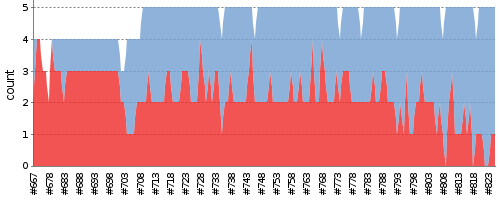
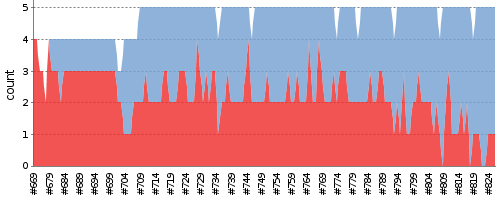
update report

diff --git a/index.md b/index.md
@@ -1,7 +1,7 @@
 ---
 layout: default
 ---
-Last update : 2016/01/20 22:59:09
+Last update : 2016/01/20 23:59:14
   
 ### Job Summary
 ___
@@ -107,6 +107,7 @@ ___
 #### Build History
 |Status|Time|Duration|<span class='badge'>ctest</span>|<span class='badge'>cppcheck</span>|Coverage|Changes|Logs|Note|
 |---|---|---|---|---|---|---|---|---|---|
+|![Jenkins Icon](http://jenkinshrg.github.io/images/24x24/yellow.png)UNSTABLE|2016/01/20 23:00|46 min.|1||||[CONSOLE](https://drive.google.com/file/d/0B54sHwaxmuM4WTNBUzJzNWpwaDA/view?usp=drivesdk)<br>[IMAGE](https://drive.google.com/file/d/0B54sHwaxmuM4YnhON295TGpiZ1U/view?usp=drivesdk)<br>[VIDEO](https://drive.google.com/file/d/0B54sHwaxmuM4YS1fdUk2NWY1c1E/view?usp=drivesdk)<br>[CONSOLE](https://drive.google.com/file/d/0B54sHwaxmuM4czhYZFlVY2xPZlE/view?usp=drivesdk)<br>[IMAGE](https://drive.google.com/file/d/0B54sHwaxmuM4RFdMdktUR0s3Ums/view?usp=drivesdk)<br>[VIDEO](https://drive.google.com/file/d/0B54sHwaxmuM4TnZoRmhIR0JhVW8/view?usp=drivesdk)<br>[CONSOLE](https://drive.google.com/file/d/0B54sHwaxmuM4UXk1dVFjVU1hZEk/view?usp=drivesdk)<br>[IMAGE](https://drive.google.com/file/d/0B54sHwaxmuM4LW4wQ2NkeS12UFU/view?usp=drivesdk)<br>[VIDEO](https://drive.google.com/file/d/0B54sHwaxmuM4dl9tYjlsbE10RnM/view?usp=drivesdk)<br>[CONSOLE](https://drive.google.com/file/d/0B54sHwaxmuM4endOdnRTY01yalk/view?usp=drivesdk)<br>[IMAGE](https://drive.google.com/file/d/0B54sHwaxmuM4SUVSMTZZank1Zkk/view?usp=drivesdk)<br>[VIDEO](https://drive.google.com/file/d/0B54sHwaxmuM4dEY3RE1jXzhfcmc/view?usp=drivesdk)<br>[CONSOLE](https://drive.google.com/file/d/0B54sHwaxmuM4WVo2RlhFS0hpTk0/view?usp=drivesdk)<br>[IMAGE](https://drive.google.com/file/d/0B54sHwaxmuM4aVhvR0xSLXpURG8/view?usp=drivesdk)<br>[VIDEO](https://drive.google.com/file/d/0B54sHwaxmuM4RTBkUTRNWGdKRFE/view?usp=drivesdk)<br>||
 |![Jenkins Icon](http://jenkinshrg.github.io/images/24x24/yellow.png)UNSTABLE|2016/01/20 22:00|45 min.|1||||[CONSOLE](https://drive.google.com/file/d/0B54sHwaxmuM4U240UU1rbVlULTg/view?usp=drivesdk)<br>[IMAGE](https://drive.google.com/file/d/0B54sHwaxmuM4clhYYktsTnBkd1k/view?usp=drivesdk)<br>[VIDEO](https://drive.google.com/file/d/0B54sHwaxmuM4VnJkdHFtVHlKdEU/view?usp=drivesdk)<br>[CONSOLE](https://drive.google.com/file/d/0B54sHwaxmuM4WTRnV3Y1LWQ1dHc/view?usp=drivesdk)<br>[IMAGE](https://drive.google.com/file/d/0B54sHwaxmuM4OGQtUzNnd0dJY2s/view?usp=drivesdk)<br>[VIDEO](https://drive.google.com/file/d/0B54sHwaxmuM4Y2s2WEZPNWtYY2s/view?usp=drivesdk)<br>[CONSOLE](https://drive.google.com/file/d/0B54sHwaxmuM4UVdGem16azVjSDg/view?usp=drivesdk)<br>[IMAGE](https://drive.google.com/file/d/0B54sHwaxmuM4eVpLcjB2T05LQXc/view?usp=drivesdk)<br>[VIDEO](https://drive.google.com/file/d/0B54sHwaxmuM4d1BFa2VrbWViUEE/view?usp=drivesdk)<br>[CONSOLE](https://drive.google.com/file/d/0B54sHwaxmuM4SlVFNkQ1aHhWSEk/view?usp=drivesdk)<br>[IMAGE](https://drive.google.com/file/d/0B54sHwaxmuM4QjItNEhCQXFURDA/view?usp=drivesdk)<br>[VIDEO](https://drive.google.com/file/d/0B54sHwaxmuM4SVgwbHppRVk4a2M/view?usp=drivesdk)<br>[CONSOLE](https://drive.google.com/file/d/0B54sHwaxmuM4UXBGVm83Q2t0d28/view?usp=drivesdk)<br>[IMAGE](https://drive.google.com/file/d/0B54sHwaxmuM4ZXlVQXJ0VUNsWTQ/view?usp=drivesdk)<br>[VIDEO](https://drive.google.com/file/d/0B54sHwaxmuM4RTNiaXNjTmgtZXc/view?usp=drivesdk)<br>||
 |![Jenkins Icon](http://jenkinshrg.github.io/images/24x24/yellow.png)UNSTABLE|2016/01/20 21:00|46 min.|1||||[CONSOLE](https://drive.google.com/file/d/0B54sHwaxmuM4VzFGR3NjZHBsZ1U/view?usp=drivesdk)<br>[IMAGE](https://drive.google.com/file/d/0B54sHwaxmuM4XzhtXzNiX256djQ/view?usp=drivesdk)<br>[VIDEO](https://drive.google.com/file/d/0B54sHwaxmuM4cFRZWGR4Q2lSMUE/view?usp=drivesdk)<br>[CONSOLE](https://drive.google.com/file/d/0B54sHwaxmuM4X2ZuR0NEaVBhZjQ/view?usp=drivesdk)<br>[IMAGE](https://drive.google.com/file/d/0B54sHwaxmuM4LXFzaHIwSzJ0VXc/view?usp=drivesdk)<br>[VIDEO](https://drive.google.com/file/d/0B54sHwaxmuM4dm1LR2lFSnRHLVU/view?usp=drivesdk)<br>[CONSOLE](https://drive.google.com/file/d/0B54sHwaxmuM4d0NiazZDTVhDc3c/view?usp=drivesdk)<br>[IMAGE](https://drive.google.com/file/d/0B54sHwaxmuM4aUtTOUNHandWMm8/view?usp=drivesdk)<br>[VIDEO](https://drive.google.com/file/d/0B54sHwaxmuM4SDJxaTJXSXNRNnM/view?usp=drivesdk)<br>[CONSOLE](https://drive.google.com/file/d/0B54sHwaxmuM4OXhwVzE0R05kSlk/view?usp=drivesdk)<br>[IMAGE](https://drive.google.com/file/d/0B54sHwaxmuM4blhDbjJyU1VMd28/view?usp=drivesdk)<br>[VIDEO](https://drive.google.com/file/d/0B54sHwaxmuM4S01kZEVMZnVwODg/view?usp=drivesdk)<br>[CONSOLE](https://drive.google.com/file/d/0B54sHwaxmuM4anNnc3lBUU1ucFk/view?usp=drivesdk)<br>[IMAGE](https://drive.google.com/file/d/0B54sHwaxmuM4UkgwRUk4cUJWYzQ/view?usp=drivesdk)<br>[VIDEO](https://drive.google.com/file/d/0B54sHwaxmuM4V0lkeDBxODR4UEU/view?usp=drivesdk)<br>||
 |![Jenkins Icon](http://jenkinshrg.github.io/images/24x24/blue.png)SUCCESS|2016/01/20 20:00|45 min.|0||||[CONSOLE](https://drive.google.com/file/d/0B54sHwaxmuM4VUF3MEhqNlBmTDQ/view?usp=drivesdk)<br>[IMAGE](https://drive.google.com/file/d/0B54sHwaxmuM4YWJ0OVphUkRPLW8/view?usp=drivesdk)<br>[VIDEO](https://drive.google.com/file/d/0B54sHwaxmuM4VThlWnVIeFB3Rmc/view?usp=drivesdk)<br>[CONSOLE](https://drive.google.com/file/d/0B54sHwaxmuM4aTRIQ1JReTFvWUU/view?usp=drivesdk)<br>[IMAGE](https://drive.google.com/file/d/0B54sHwaxmuM4Wlh4YU1zRV9JTFE/view?usp=drivesdk)<br>[VIDEO](https://drive.google.com/file/d/0B54sHwaxmuM4TW1Lai1mNXdqdTQ/view?usp=drivesdk)<br>[CONSOLE](https://drive.google.com/file/d/0B54sHwaxmuM4QkZ3a0FSd3BPMWM/view?usp=drivesdk)<br>[IMAGE](https://drive.google.com/file/d/0B54sHwaxmuM4Z25USzRGdUZTZ2s/view?usp=drivesdk)<br>[VIDEO](https://drive.google.com/file/d/0B54sHwaxmuM4T19mbDBiYzVhUWc/view?usp=drivesdk)<br>[CONSOLE](https://drive.google.com/file/d/0B54sHwaxmuM4cUZxWG5XY1pzbTA/view?usp=drivesdk)<br>[IMAGE](https://drive.google.com/file/d/0B54sHwaxmuM4eDAwdl9lY1NickE/view?usp=drivesdk)<br>[VIDEO](https://drive.google.com/file/d/0B54sHwaxmuM4YXRBRkxSWmxqaUU/view?usp=drivesdk)<br>[CONSOLE](https://drive.google.com/file/d/0B54sHwaxmuM4ZU1PczRYLWhPb00/view?usp=drivesdk)<br>[IMAGE](https://drive.google.com/file/d/0B54sHwaxmuM4ZEhHM216V2REdlU/view?usp=drivesdk)<br>[VIDEO](https://drive.google.com/file/d/0B54sHwaxmuM4TFcwTFBzbmFtMU0/view?usp=drivesdk)<br>||
@@ -206,4 +207,3 @@ ___
 |![Jenkins Icon](http://jenkinshrg.github.io/images/24x24/yellow.png)UNSTABLE|2016/01/16 14:09|69 min.|3||||[CONSOLE](https://drive.google.com/file/d/0B54sHwaxmuM4YUt0VlNCc3N3amM/view?usp=drivesdk)<br>[IMAGE](https://drive.google.com/file/d/0B54sHwaxmuM4dGxUVTdKeWZfTGs/view?usp=drivesdk)<br>[VIDEO](https://drive.google.com/file/d/0B54sHwaxmuM4ZnRPRmxLR3dEM2c/view?usp=drivesdk)<br>[CONSOLE](https://drive.google.com/file/d/0B54sHwaxmuM4OEZlcjFSaVRMeXM/view?usp=drivesdk)<br>[IMAGE](https://drive.google.com/file/d/0B54sHwaxmuM4WXdhRkdCdnp5OXc/view?usp=drivesdk)<br>[VIDEO](https://drive.google.com/file/d/0B54sHwaxmuM4TkNQd2d5ejU1ZXM/view?usp=drivesdk)<br>[CONSOLE](https://drive.google.com/file/d/0B54sHwaxmuM4WndWeDItbW9Pa3c/view?usp=drivesdk)<br>[IMAGE](https://drive.google.com/file/d/0B54sHwaxmuM4c19SZkkwQVI0Tkk/view?usp=drivesdk)<br>[VIDEO](https://drive.google.com/file/d/0B54sHwaxmuM4bkYtb2N2U1BJbXM/view?usp=drivesdk)<br>[CONSOLE](https://drive.google.com/file/d/0B54sHwaxmuM4bmlJWWdIeENKSXM/view?usp=drivesdk)<br>[IMAGE](https://drive.google.com/file/d/0B54sHwaxmuM4aFVTM1FRc3UwS1U/view?usp=drivesdk)<br>[VIDEO](https://drive.google.com/file/d/0B54sHwaxmuM4T1NVT19hQzV3clU/view?usp=drivesdk)<br>[CONSOLE](https://drive.google.com/file/d/0B54sHwaxmuM4MDZyXzNYcTlVNW8/view?usp=drivesdk)<br>[IMAGE](https://drive.google.com/file/d/0B54sHwaxmuM4U0VEOW9UdW9CWTA/view?usp=drivesdk)<br>[VIDEO](https://drive.google.com/file/d/0B54sHwaxmuM4YmNEODYwaTdoR1U/view?usp=drivesdk)<br>||
 |![Jenkins Icon](http://jenkinshrg.github.io/images/24x24/yellow.png)UNSTABLE|2016/01/16 12:58|71 min.|4||||[CONSOLE](https://drive.google.com/file/d/0B54sHwaxmuM4NFNxeWtUcDBNY1k/view?usp=drivesdk)<br>[IMAGE](https://drive.google.com/file/d/0B54sHwaxmuM4WmlQNVY1ZXFxdWs/view?usp=drivesdk)<br>[VIDEO](https://drive.google.com/file/d/0B54sHwaxmuM4YUN6VkRIdkhxR1E/view?usp=drivesdk)<br>[CONSOLE](https://drive.google.com/file/d/0B54sHwaxmuM4OHVPVF8wRDFQTEU/view?usp=drivesdk)<br>[IMAGE](https://drive.google.com/file/d/0B54sHwaxmuM4c1ZEUVJNNDB2dTQ/view?usp=drivesdk)<br>[VIDEO](https://drive.google.com/file/d/0B54sHwaxmuM4M2swSWhVdkp3ZW8/view?usp=drivesdk)<br>[CONSOLE](https://drive.google.com/file/d/0B54sHwaxmuM4NU5ZTHVBaFktZFU/view?usp=drivesdk)<br>[IMAGE](https://drive.google.com/file/d/0B54sHwaxmuM4UGdpcWlfRDJLZk0/view?usp=drivesdk)<br>[VIDEO](https://drive.google.com/file/d/0B54sHwaxmuM4bG9zNUI1VWYtcms/view?usp=drivesdk)<br>[CONSOLE](https://drive.google.com/file/d/0B54sHwaxmuM4V25mcy1kc05sazQ/view?usp=drivesdk)<br>[IMAGE](https://drive.google.com/file/d/0B54sHwaxmuM4dnRYVThpTjhiWEU/view?usp=drivesdk)<br>[VIDEO](https://drive.google.com/file/d/0B54sHwaxmuM4RnJOenAzM1FxOGM/view?usp=drivesdk)<br>[CONSOLE](https://drive.google.com/file/d/0B54sHwaxmuM4aTZJeUpOUjJ6ZUE/view?usp=drivesdk)<br>[IMAGE](https://drive.google.com/file/d/0B54sHwaxmuM4ekpUOVgxX2xuZVU/view?usp=drivesdk)<br>[VIDEO](https://drive.google.com/file/d/0B54sHwaxmuM4cjEtM2gtZFJoOW8/view?usp=drivesdk)<br>||
 |![Jenkins Icon](http://jenkinshrg.github.io/images/24x24/yellow.png)UNSTABLE|2016/01/16 11:47|70 min.|2||||[CONSOLE](https://drive.google.com/file/d/0B54sHwaxmuM4dXB6RmhQejhOS28/view?usp=drivesdk)<br>[IMAGE](https://drive.google.com/file/d/0B54sHwaxmuM4cEMwN1l5M0M3WE0/view?usp=drivesdk)<br>[VIDEO](https://drive.google.com/file/d/0B54sHwaxmuM4T1l5TkNCWno0aXc/view?usp=drivesdk)<br>[CONSOLE](https://drive.google.com/file/d/0B54sHwaxmuM4el9sRUw5Mm1ST2M/view?usp=drivesdk)<br>[IMAGE](https://drive.google.com/file/d/0B54sHwaxmuM4MzgtUG1UdUVIMTg/view?usp=drivesdk)<br>[VIDEO](https://drive.google.com/file/d/0B54sHwaxmuM4MjZpWUpVejdkXzA/view?usp=drivesdk)<br>[CONSOLE](https://drive.google.com/file/d/0B54sHwaxmuM4X28zYWpTdlpPME0/view?usp=drivesdk)<br>[IMAGE](https://drive.google.com/file/d/0B54sHwaxmuM4NHJVUnlYVXVGdTQ/view?usp=drivesdk)<br>[VIDEO](https://drive.google.com/file/d/0B54sHwaxmuM4VjQ3NlNTaHgyNEE/view?usp=drivesdk)<br>[CONSOLE](https://drive.google.com/file/d/0B54sHwaxmuM4ajRKa0REMkpWeEE/view?usp=drivesdk)<br>[IMAGE](https://drive.google.com/file/d/0B54sHwaxmuM4bjYyUjlfQU0tYVU/view?usp=drivesdk)<br>[VIDEO](https://drive.google.com/file/d/0B54sHwaxmuM4Y0x1RXA3bTlTM2M/view?usp=drivesdk)<br>[CONSOLE](https://drive.google.com/file/d/0B54sHwaxmuM4ay1oU1RxclhfdDQ/view?usp=drivesdk)<br>[IMAGE](https://drive.google.com/file/d/0B54sHwaxmuM4RHFZRngxNGwzWWc/view?usp=drivesdk)<br>[VIDEO](https://drive.google.com/file/d/0B54sHwaxmuM4ZEd0dFZIYXR5UWM/view?usp=drivesdk)<br>||
-|![Jenkins Icon](http://jenkinshrg.github.io/images/24x24/yellow.png)UNSTABLE|2016/01/16 10:38|69 min.|2||||[CONSOLE](https://drive.google.com/file/d/0B54sHwaxmuM4ejdCMUhjV2NmYU0/view?usp=drivesdk)<br>[IMAGE](https://drive.google.com/file/d/0B54sHwaxmuM4LTMxcTAxLUZlbk0/view?usp=drivesdk)<br>[VIDEO](https://drive.google.com/file/d/0B54sHwaxmuM4eERZNmdseElQTTQ/view?usp=drivesdk)<br>[CONSOLE](https://drive.google.com/file/d/0B54sHwaxmuM4aXlXZUxTX1AtV28/view?usp=drivesdk)<br>[IMAGE](https://drive.google.com/file/d/0B54sHwaxmuM4T2xXTVo5Zk1LclU/view?usp=drivesdk)<br>[VIDEO](https://drive.google.com/file/d/0B54sHwaxmuM4Ri1GbDA0Y19Sczg/view?usp=drivesdk)<br>[CONSOLE](https://drive.google.com/file/d/0B54sHwaxmuM4SVA0MExRd3paSkE/view?usp=drivesdk)<br>[IMAGE](https://drive.google.com/file/d/0B54sHwaxmuM4ZEZOLWppbXEtME0/view?usp=drivesdk)<br>[VIDEO](https://drive.google.com/file/d/0B54sHwaxmuM4M2kyS1M5VG5tam8/view?usp=drivesdk)<br>[CONSOLE](https://drive.google.com/file/d/0B54sHwaxmuM4XzhZRHNIYWxmdFU/view?usp=drivesdk)<br>[IMAGE](https://drive.google.com/file/d/0B54sHwaxmuM4QnlDU213bVI2a1U/view?usp=drivesdk)<br>[VIDEO](https://drive.google.com/file/d/0B54sHwaxmuM4YjBEemRLdHNvdUk/view?usp=drivesdk)<br>[CONSOLE](https://drive.google.com/file/d/0B54sHwaxmuM4VEVMVUNHUHVTZTg/view?usp=drivesdk)<br>[IMAGE](https://drive.google.com/file/d/0B54sHwaxmuM4NjVUYzZSY1o2YWM/view?usp=drivesdk)<br>[VIDEO](https://drive.google.com/file/d/0B54sHwaxmuM4X0FMel9sRkFkTms/view?usp=drivesdk)<br>||
